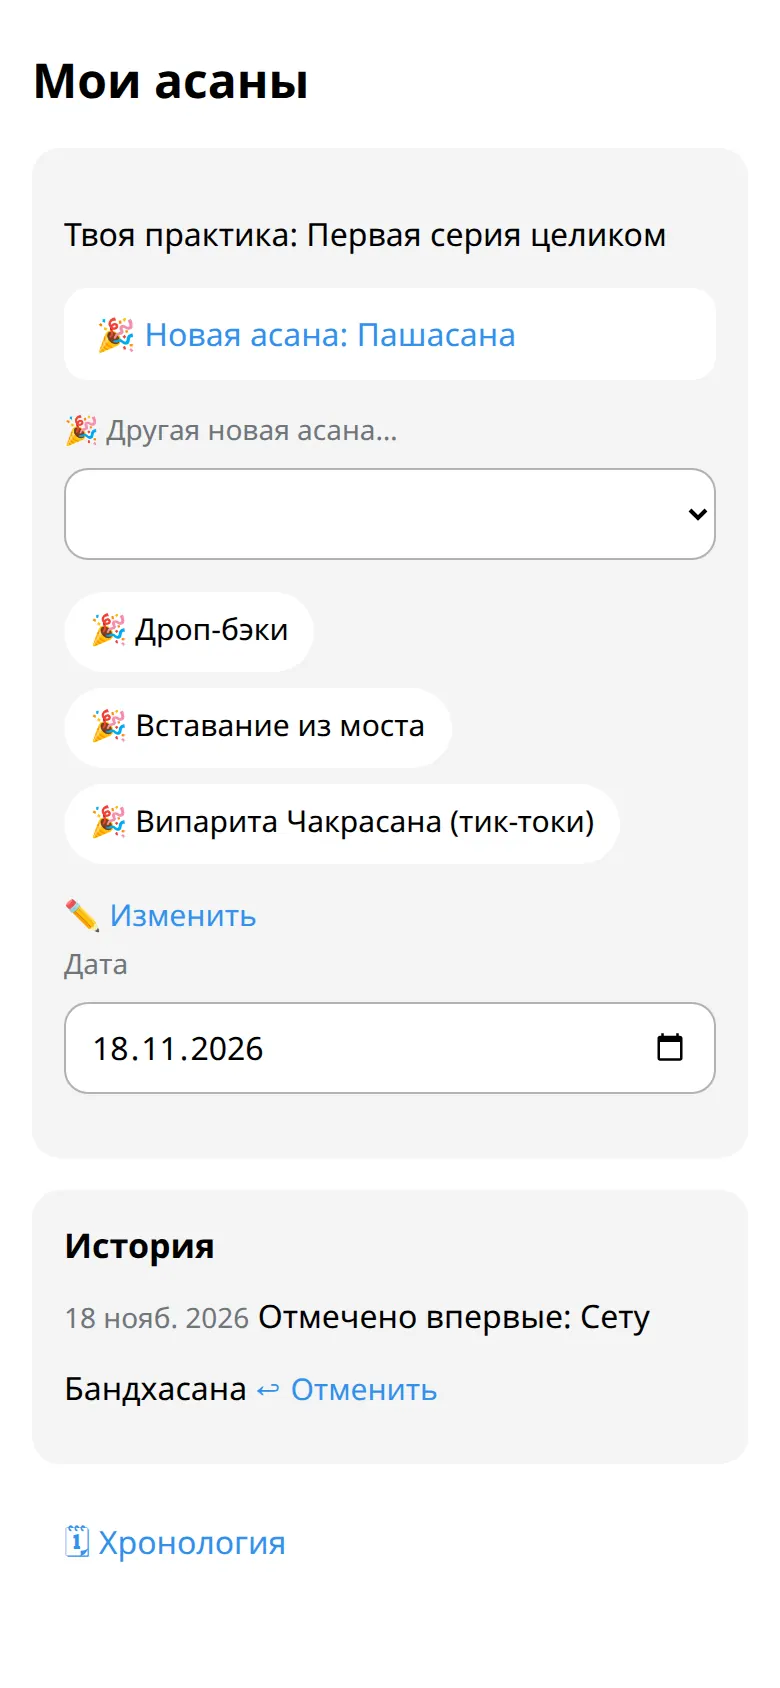
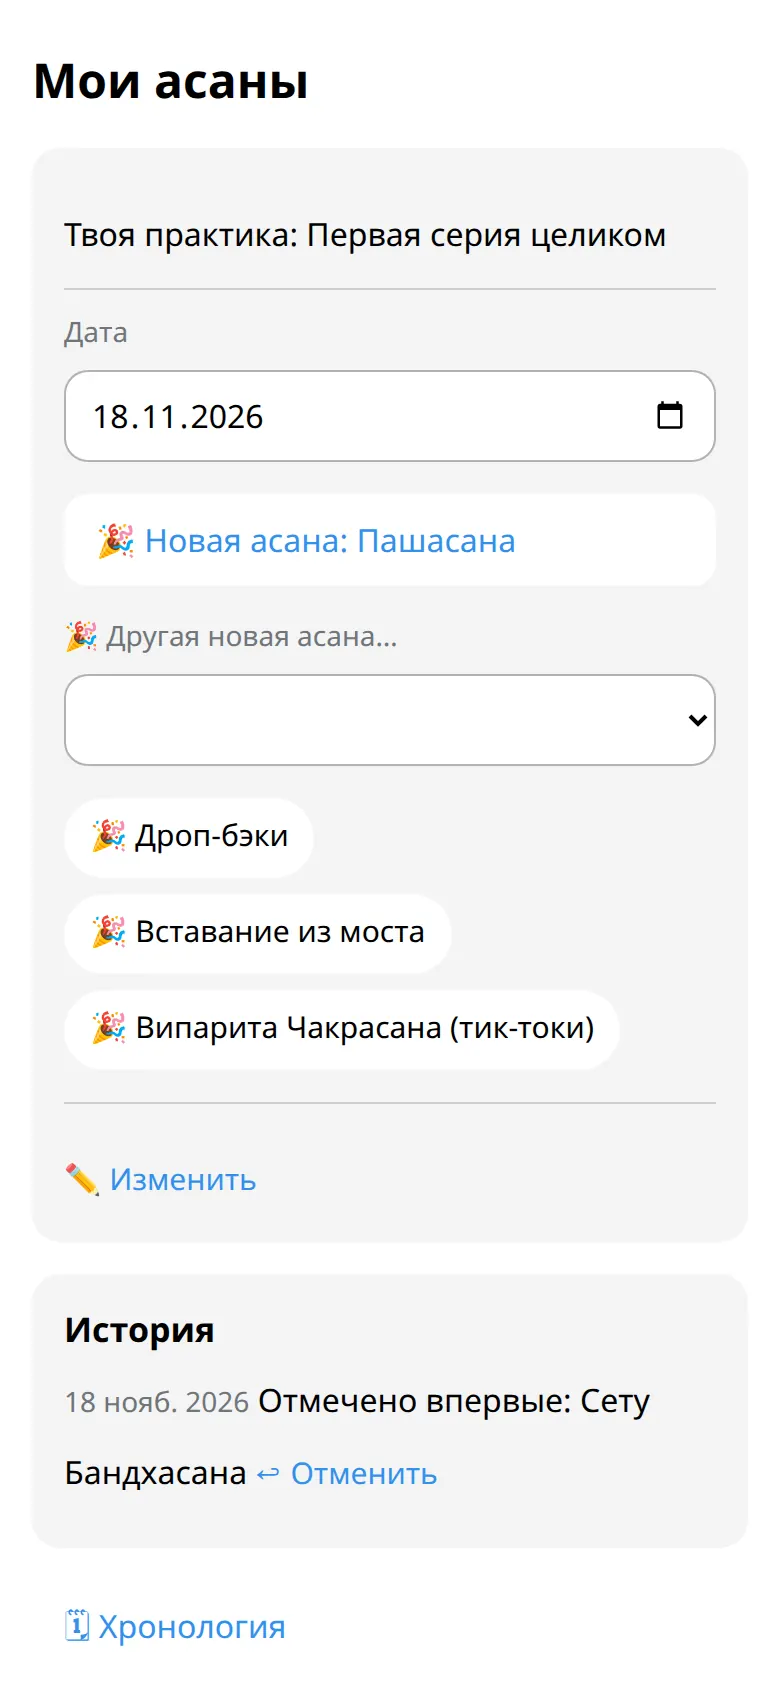
UI-06: launch leftovers review fixes
The shala card's day-off row stays on the card and, like the waiting row, never
counts toward More…. My asanas puts Change right under "Your practice", then the
date with the new-asana marks; the first setup keeps its own date field so it
can be backdated. The seat filled in after joining stays, with a comment.

diff --git a/miniapp/src/screens/progression/Progression.tsx b/miniapp/src/screens/progression/Progression.tsx
@@ -1,5 +1,5 @@
 import { Localized, useLocalization, type ReactLocalization } from "@fluent/react";
-import { Suspense, useCallback, useState } from "react";
+import { Suspense, useCallback, useState, type ReactNode } from "react";
 
 import {
   ApiError,
@@ -110,8 +110,9 @@ function Body({
     change.mutate(
       {
         ...body,
-        // The date belongs to the new-asana group; Change sets where the practice ends now.
-        occurred_on: body.kind !== "set" && day && day !== today ? day : null,
+        // Once a position exists, Change sets where the practice ends now; the date belongs to
+        // the new-asana marks and to the first setup (which may be backdated).
+        occurred_on: (body.kind !== "set" || !progression.set) && day && day !== today ? day : null,
         expected_event_id: progression.last_event_id,
       },
       {
@@ -138,6 +139,18 @@ function Body({
   };
   const position = progression.position;
   const busy = change.isPending || undo.isPending;
+  const dateField = today ? (
+    <Field label={get(l10n, "progression-date")}>
+      <DateInput
+        value={day}
+        max={today}
+        min="2000-01-01"
+        onChange={(e) => {
+          setDay(e.target.value || today);
+        }}
+      />
+    </Field>
+  ) : null;
 
   return (
     <>
@@ -187,21 +200,39 @@ function Body({
         ) : (
           <Current catalog={catalog} progression={progression} locale={locale} />
         )}
+        {editing ? (
+          <ChangeForm
+            catalog={catalog}
+            position={position ?? null}
+            locale={locale}
+            busy={busy}
+            onSave={(target) => {
+              send({ kind: "set", ...target });
+            }}
+            date={progression.set ? null : dateField}
+            onCancel={
+              progression.set
+                ? () => {
+                    setEditing(false);
+                  }
+                : undefined
+            }
+          />
+        ) : (
+          <Localized id="progression-change">
+            <button
+              type="button"
+              className="link"
+              onClick={() => {
+                setEditing(true);
+              }}
+            />
+          </Localized>
+        )}
         {progression.set && (
-          // Q367 (a): marking a new asana is one group, its date with it; Change is apart.
+          // Q367 (a): marking a new asana is one group, its date with it, below Change.
           <div className="details new-asana-group" role="group">
-            {today && (
-              <Field label={get(l10n, "progression-date")}>
-                <DateInput
-                  value={day}
-                  max={today}
-                  min="2000-01-01"
-                  onChange={(e) => {
-                    setDay(e.target.value || today);
-                  }}
-                />
-              </Field>
-            )}
+            {dateField}
             {progression.next && (
               <button
                 type="button"
@@ -258,36 +289,6 @@ function Body({
                 );
               })}
             </div>
-          </div>
-        )}
-        {editing ? (
-          <ChangeForm
-            catalog={catalog}
-            position={position ?? null}
-            locale={locale}
-            busy={busy}
-            onSave={(target) => {
-              send({ kind: "set", ...target });
-            }}
-            onCancel={
-              progression.set
-                ? () => {
-                    setEditing(false);
-                  }
-                : undefined
-            }
-          />
-        ) : (
-          <div className="details">
-            <Localized id="progression-change">
-              <button
-                type="button"
-                className="link"
-                onClick={() => {
-                  setEditing(true);
-                }}
-              />
-            </Localized>
           </div>
         )}
       </section>
@@ -364,6 +365,7 @@ function ChangeForm({
   position,
   locale,
   busy,
+  date,
   onSave,
   onCancel,
 }: {
@@ -371,6 +373,8 @@ function ChangeForm({
   position: ProgressionPosition | null;
   locale: Locale;
   busy: boolean;
+  /** The first setup's date field (it may be backdated); none once a position exists. */
+  date: ReactNode;
   onSave: (target: Target) => void;
   onCancel: (() => void) | undefined;
 }) {
@@ -420,6 +424,7 @@ function ChangeForm({
           </Select>
         </Field>
       )}
+      {date}
       <div className="chips">
         <Localized id="progression-save">
           <button

diff --git a/miniapp/src/screens/progression/Progression.test.tsx b/miniapp/src/screens/progression/Progression.test.tsx
@@ -305,7 +305,7 @@ test("Telegram's Back closes the Change form and stays on the screen", async () 
   expect(onBack).not.toHaveBeenCalled();
 });
 
-test("the date sits with the new-asana marks; Change is a row of its own (Q367 a)", async () => {
+test("Change sits under the line it changes; the date sits with the new-asana marks (Q367 a)", async () => {
   stubApi();
   renderWith(<Progression locale="en" onBack={vi.fn()} />);
 
@@ -315,12 +315,34 @@ test("the date sits with the new-asana marks; Change is a row of its own (Q367 a
   expect(within(group).getByLabelText("Date")).toBeInTheDocument();
   expect(within(group).getByLabelText("🎉 Another new asana…")).toBeInTheDocument();
   expect(within(group).getByRole("button", { name: "🎉 Drop-backs" })).toBeInTheDocument();
-  expect(within(group).queryByRole("button", { name: "✏ Change" })).toBeNull();
 
   const change = screen.getByRole("button", { name: "✏ Change" });
+  const current = screen.getByText("Your practice: Primary → Navasana");
   expect(group.contains(change)).toBe(false);
-  // Change comes after the group, never between a label and its field.
-  expect(group.compareDocumentPosition(change) & Node.DOCUMENT_POSITION_FOLLOWING).toBeTruthy();
+  // Right after "Your practice: …", before the group and its date.
+  expect(current.compareDocumentPosition(change) & Node.DOCUMENT_POSITION_FOLLOWING).toBeTruthy();
+  expect(group.compareDocumentPosition(change) & Node.DOCUMENT_POSITION_PRECEDING).toBeTruthy();
+  expect(screen.getAllByLabelText("Date")).toHaveLength(1);
+});
+
+test("the first setup can be backdated", async () => {
+  const seen = stubApi({
+    progression: unset(),
+    post: { progression: AT_NAVASANA, event: AT_NAVASANA.events[0], celebrations: [] },
+  });
+  renderWith(<Progression locale="en" onBack={vi.fn()} />);
+
+  fireEvent.change(await screen.findByLabelText("Date"), { target: { value: "2026-09-01" } });
+  fireEvent.change(screen.getByLabelText("Last asana"), { target: { value: "kurmasana" } });
+  fireEvent.click(screen.getByRole("button", { name: "Save" }));
+
+  await waitFor(() => {
+    expect(posts(seen)[0]).toMatchObject({
+      kind: "set",
+      last: "kurmasana",
+      occurred_on: "2026-09-01",
+    });
+  });
 });
 
 test("a new asana takes the picked date; Change sets where the practice ends now", async () => {

diff --git a/backend/src/tristhana/bots/telegram/shalas.py b/backend/src/tristhana/bots/telegram/shalas.py
@@ -10,7 +10,7 @@ import asyncio
 import logging
 from collections.abc import Awaitable, Sequence
 from datetime import date
-from typing import TYPE_CHECKING
+from typing import TYPE_CHECKING, Literal
 from urllib.parse import quote, urlencode
 from uuid import UUID
 
@@ -83,6 +83,10 @@ if TYPE_CHECKING:
 PAGE = 10
 CLASS_LINES = 12  # the Classes block on the card, then "…" (the rest is in the app)
 CARD_ROWS = 7  # Q373 (a): more action rows than this, and the card keeps its main ones + More…
+type Place = Literal["main", "more", "passing"]  # where a card row goes (`_actions`)
+MAIN: Place = "main"
+MORE: Place = "more"
+PASSING: Place = "passing"
 DASH = "\u2013"  # en dash: Mon-Fri, 06:00-09:30
 QR_FILE = "tristhana-shala.png"
 QR_TIMEOUT_S = 10
@@ -358,12 +362,12 @@ class ShalaScreens:
         if lead:
             text = f"{lead}\n\n{text}"
         rows = self._actions(principal, card, current, waiting, asking, no_teachers)
-        # The waiting row comes and goes, so it never flips the card's layout.
-        steady = len(rows) - (1 if waiting > 0 else 0)
-        if steady > CARD_ROWS and sum(1 for _, main in rows if not main) > 1:
+        # The waiting and day-off rows come and go, so they never flip the card's layout.
+        steady = sum(1 for _, place in rows if place != PASSING)
+        if steady > CARD_ROWS and sum(1 for _, place in rows if place == MORE) > 1:
             # Q373 (a): the main actions stay; the rest is one tap away behind More…
             more = self._button(locale, "shala-more-button", cb.on_shala("mo", card.id))
-            shown = [row for row, main in rows if main] + [[more]]
+            shown = [row for row, place in rows if place != MORE] + [[more]]
         else:
             shown = [row for row, _ in rows]
         shown.append([self._button(locale, "log-back", "t1:o")])
@@ -378,57 +382,58 @@ class ShalaScreens:
         waiting: int,
         asking: list[list[InlineKeyboardButton]],
         no_teachers: bool,
-    ) -> list[tuple[list[InlineKeyboardButton], bool]]:
-        """The card's action rows in their order, each with whether it is a main one (kept
-        on the card when the rest goes behind More…, Q373 (a)); Back is not among them."""
+    ) -> list[tuple[list[InlineKeyboardButton], Place]]:
+        """The card's action rows in their order, each with its place (Q373 (a)): MAIN stays
+        on the card, MORE goes behind More… on a long card, PASSING stays on the card and is
+        not counted, since it comes and goes. Back is not among them."""
         locale = principal.account.locale
         me = card.me
         manages = can_manage_schedule(me)
         days_off = self._days_off(locale, card.days_off)
-        rows: list[tuple[list[InlineKeyboardButton], bool]] = []
+        rows: list[tuple[list[InlineKeyboardButton], Place]] = []
         if waiting > 0:  # ID-07: people waiting for my answer, in any shala
-            rows.append((waiting_row(self._t, locale, waiting), True))
+            rows.append((waiting_row(self._t, locale, waiting), PASSING))
         ann = self._links.announcements
         if ann is not None:  # NT-03
-            rows.append(([ann.card_button(locale, Source(SourceKind.SHALA, card.id))], False))
+            rows.append(([ann.card_button(locale, Source(SourceKind.SHALA, card.id))], MORE))
             announce = self._links.announce_button(locale, card.id)
             if announce is not None and can_announce_to_shala(me):
-                rows.append(([announce], False))
+                rows.append(([announce], MORE))
         if self._h.classes is not None:  # SC-02
             week = self._button(locale, "schedule-open", classes_cb.week(card.id, 0))
-            rows.append(([week], True))
+            rows.append(([week], MAIN))
             if manages and self._app:  # UI-06 stage 6 (B1): the forms are in the app
                 none = not current if current is not None else card.classes_total == 0
                 if none:
                     url = app_url(self._app, "class", shala=str(card.id))
-                    rows.append(([self._app_button(locale, "schedule-add-class", url)], True))
+                    rows.append(([self._app_button(locale, "schedule-add-class", url)], MAIN))
                 else:
                     url = app_url(self._app, "shala", shala=str(card.id))
-                    rows.append(([self._app_button(locale, "shala-classes-edit", url)], True))
+                    rows.append(([self._app_button(locale, "shala-classes-edit", url)], MAIN))
             if days_off is not None and principal.account.day_off.days is None:  # Q119
                 adopt = classes_cb.adopt_day_off(card.id)
                 button = self._button(locale, "shala-day-off-adopt", adopt, days=days_off)
-                rows.append(([button], False))
-        rows += [(row, True) for row in asking]
+                rows.append(([button], PASSING))  # goes once a day off is set
+        rows.extend((row, MAIN) for row in asking)
         if can_view_shala_students(me) and card.students_total is not None:
             n = card.students_total
             students = self._button(locale, "shala-students", cb.students(card.id, 0), n=n)  # type: ignore[arg-type]
-            rows.append(([students], True))
+            rows.append(([students], MAIN))
         if can_show_join_link(me) and self._username:
             invite = self._button(locale, "shala-invite-students", cb.on_shala("i", card.id))
-            rows.append(([invite], True))
+            rows.append(([invite], MAIN))
         if grantable(me) and self._username:
             staff = self._button(locale, "shala-invite-staff", cb.on_shala("e", card.id))
-            rows.append(([staff], False))
+            rows.append(([staff], MORE))
         if self._app:  # UI-06 stage 6 (B1): roles and the shala's own form are in the app
             if no_teachers:  # the no-teachers hint's own button stays under the hint
                 url = app_url(self._app, "shala", shala=str(card.id))
-                rows.append(([self._app_button(locale, "app-open-shala", url)], True))
+                rows.append(([self._app_button(locale, "app-open-shala", url)], MAIN))
             if can_edit_shala(me):
                 url = app_url(self._app, "edit-shala", shala=str(card.id))
-                rows.append(([self._app_button(locale, "shala-edit", url)], False))
+                rows.append(([self._app_button(locale, "shala-edit", url)], MORE))
         if not me.owner:
-            rows.append(([self._button(locale, "shala-leave", cb.on_shala("k", card.id))], False))
+            rows.append(([self._button(locale, "shala-leave", cb.on_shala("k", card.id))], MORE))
         return rows
 
     async def more(self, principal: Principal, shala: UUID) -> Screen:
@@ -442,8 +447,8 @@ class ShalaScreens:
         no_teachers = self._links.requests is not None and can_edit_shala(card.me) and not teachers
         rows = [
             row
-            for row, main in self._actions(principal, card, None, 0, [], no_teachers)
-            if not main
+            for row, place in self._actions(principal, card, None, 0, [], no_teachers)
+            if place == MORE
         ]
         if not rows:  # nothing more for this seat (a role changed since): the card
             return await self.card(principal, shala)

diff --git a/backend/tests/bots/test_shala_classes_bot.py b/backend/tests/bots/test_shala_classes_bot.py
@@ -288,6 +288,40 @@ def test_the_cards_rows_per_role_and_more(
     assert _data(inner, "‹ Back") == f"h1:c:{short_id(shala)}"
 
 
+@pytest.mark.parametrize(
+    ("role", "card"),
+    [
+        ("owner", [*CARD_MAIN[:2], ["😌 Make Sunday my day off too"], *CARD_MAIN[2:], ["More…"]]),
+        (
+            "teacher",
+            [
+                *ANNOUNCE,
+                *CARD_MAIN[:2],
+                ["😌 Make Sunday my day off too"],
+                *CARD_MAIN[2:],
+                ["Leave…"],
+            ],
+        ),
+    ],
+)
+def test_the_day_off_row_stays_on_the_card_and_never_flips_it(
+    client: TestClient, storage: InMemoryStorage, role: str, card: list[list[str]]
+) -> None:
+    """Review fix: the shala's day off offered to someone without one comes and goes like the
+    waiting row: on the card, under the Schedule, and not counted for More…"""
+    me = _me(client, storage)
+    shala, _ = _shala(storage, me, role)
+    storage.shalas.shalas[shala].days_off = frozenset({7})
+    storage.schedule.add_class(shala, teacher_id=me.id)
+
+    body = _card(client, shala)
+
+    assert _rows(body) == [*card, ["‹ Back"]]
+    if role == "owner":
+        more = _tap(client, _data(body, "More…"))
+        assert "😌 Make Sunday my day off too" not in _texts(more)
+
+
 def test_more_in_russian(client: TestClient, storage: InMemoryStorage) -> None:
     me = _me(client, storage, "ru")
     shala, _ = _shala(storage, me, "owner")

diff --git a/backend/src/tristhana/application/shalas.py b/backend/src/tristhana/application/shalas.py
@@ -122,6 +122,7 @@ def _with(account: Account, card: ShalaCard) -> ShalaMoon:
         # Q108 reads it for student rows only; staff rows carry False, as the account load.
         not card.me.staff and teacher is not None and any(s.id == teacher.id for s in card.staff),
         card.city,
+        # The seat too (Q373), so this account matches what its next load reads.
         owner=card.me.owner,
         roles=frozenset(r.value for r in card.me.roles),
         owns_any=card.me.owner or (account.shala is not None and account.shala.owns_any),

diff --git a/site/src/content/docs/ru/reference/whats-new.md b/site/src/content/docs/ru/reference/whats-new.md
@@ -8,7 +8,7 @@ features: [UI-05, ID-07, UI-06]
 
 ## Ноябрь 2026
 
-- **Карточка шалы в боте короче** у владельца и управляющих: сначала главные кнопки, остальное под :ftl[shala-more-button]. После :ftl[status-practiced] бот больше не повторяет это дважды. В приложении, в разделе :ftl[progression-open], дата стоит рядом с кнопками новой асаны, а :ftl[progression-change] — отдельной строкой.
+- **Карточка шалы в боте короче** у владельца и управляющих: сначала главные кнопки, остальное под :ftl[shala-more-button]. После :ftl[status-practiced] бот больше не повторяет это дважды. В приложении, в разделе :ftl[progression-open], :ftl[progression-change] стоит сразу под твоей практикой, а дата — рядом с кнопками новой асаны.
 - **Всё готово к запуску.** На карточке шалы есть список её занятий, а в боте кнопка :ftl[shala-classes-edit] открывает их в приложении. Другое время — это другое занятие: сохрани одно, потом нажми :ftl[class-add-another]. У двух приглашений понятные названия: :ftl[shala-invite-students] и :ftl[links-invite]. Если нажать кнопки в старом сообщении «Сегодня», бот спросит, на какой день записать, а ещё спросит, в каком городе ты живёшь. В «Сегодня» есть :ftl[log-another-day], а в меню — :ftl[menu-asanas].
 - **Понятные слова, одни и те же в боте и в приложении:** :ftl[diary-button], :ftl[checkin-edit], :ftl[trends-open], :ftl[practice-length]{from=bot}, :ftl[practice-duration]{from=bot}, :ftl[menu-classes] (раньше «Занятия») и :ftl[invite-send] (раньше «Поделиться»). Время показано по твоему городу, например «07:00 Алматы», а не по часовому поясу. Tristhana теперь везде пишется латиницей.
 - **Бот подсказывает кнопки, а не команды.** В сообщениях сказано, куда нажать, например :ftl[menu-open] → :ftl[menu-moon]. Команды по-прежнему работают как короткие пути: смотри [Все команды бота](../commands/).

diff --git a/site/src/content/docs/reference/whats-new.md b/site/src/content/docs/reference/whats-new.md
@@ -8,7 +8,7 @@ New things in Tristhana, newest first.
 
 ## November 2026
 
-- **A shorter shala card in the bot** for the owner and managers: the main buttons first, the rest under :ftl[shala-more-button]. After :ftl[status-practiced], the bot no longer says it twice. In the app's :ftl[progression-open], the date sits with the new-asana buttons, and :ftl[progression-change] is a row of its own.
+- **A shorter shala card in the bot** for the owner and managers: the main buttons first, the rest under :ftl[shala-more-button]. After :ftl[status-practiced], the bot no longer says it twice. In the app's :ftl[progression-open], :ftl[progression-change] sits right under your practice, and the date with the new-asana buttons.
 - **Ready for launch.** The shala's card lists its classes, and in the bot :ftl[shala-classes-edit] opens them in the app. A different time is another class: save one, then :ftl[class-add-another]. The two invites have clear names, :ftl[shala-invite-students] and :ftl[links-invite]. The bot asks which day a tap on an old Today message is for, and asks which city you live in. Today has :ftl[log-another-day], and the Menu has :ftl[menu-asanas].
 - **Clearer words, the same in the bot and the app.** Diary is now :ftl[diary-button], Check-in is :ftl[checkin-edit], Check-ins over time is :ftl[trends-open], Classes is :ftl[menu-classes], Share is :ftl[invite-send], and Length and Duration are :ftl[practice-length]{from=bot} and :ftl[practice-duration]{from=bot}. Times show your city, like 07:00 Almaty, instead of a time zone.
 - **The bot points to buttons, not commands.** Its messages say where to tap, for example :ftl[menu-open] → :ftl[menu-moon]. The commands still work as shortcuts: see [All bot commands](../commands/).
